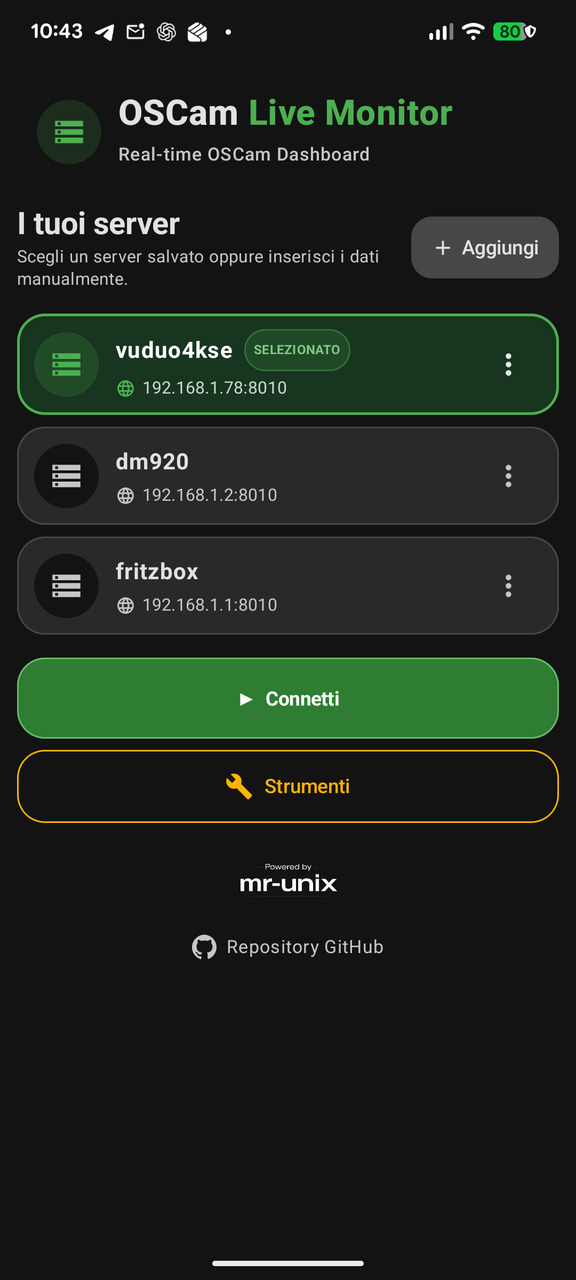
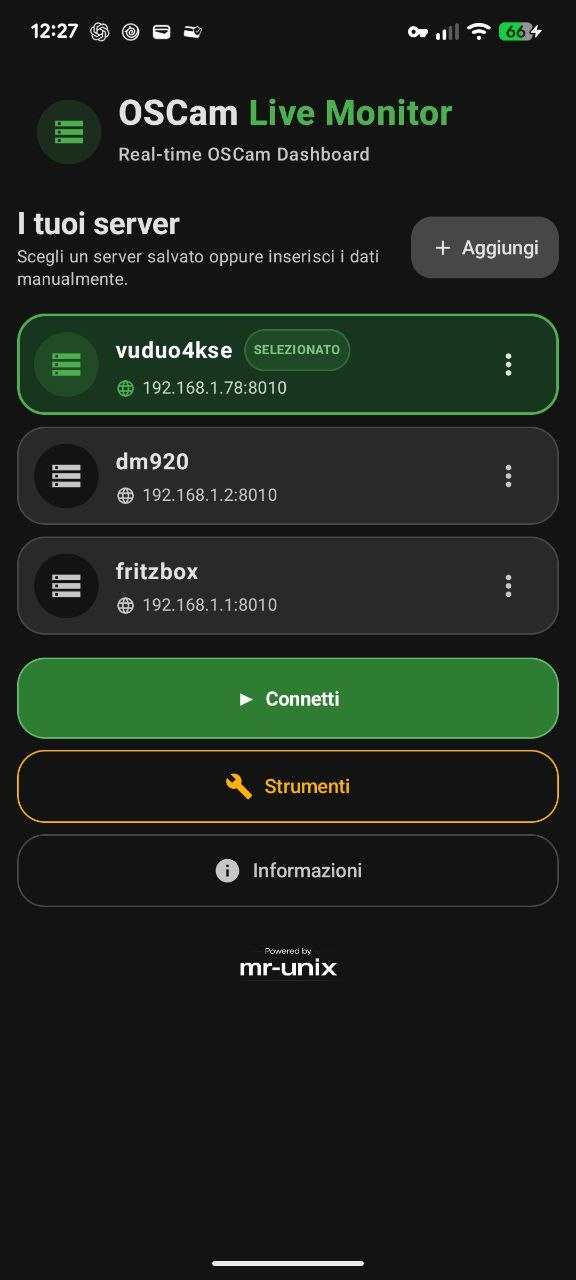
Aggiorna screenshot README per v0.9.20

diff --git a/README.md b/README.md
@@ -14,6 +14,10 @@ Android app per il monitoraggio di OSCam.
   <img src="screenshots/4.jpg" width="45%">
 </p>
 
+<p align="center">
+  <img src="screenshots/5.jpg" width="45%">
+</p>
+
 ## Download
 
 Versione disponibile nella sezione **Releases** del repository.
